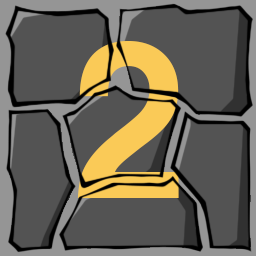
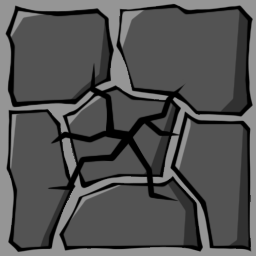
Feat: 깊이에 따라 기본 바위 체력 변경, 새로운 이미지 적용

Changed region(s): [[0.1875, 0.1562, 0.7188, 0.7812]]

diff --git a/Assets/0_Scripts/Data/DTO/MineDTO.cs b/Assets/0_Scripts/Data/DTO/MineDTO.cs
@@ -62,7 +62,7 @@ namespace Mine
                     foreach (var rock in line.Rocks) {
                         var rockDTO = new RockDTO {
                             Id = GetHex(rock.Id),
-                            Hp = rock.Hp
+                            Hp = rock.Hp,
                         };
                         lineDTO.Rocks.Add(rockDTO);
                     }
@@ -107,7 +107,9 @@ namespace Mine
                     foreach (var rockDTO in lineDTO.Rocks) {
                         var rock = new RockState {
                             Id = GetDec(rockDTO.Id),
-                            Hp = rockDTO.Hp
+                            Hp = rockDTO.Hp,
+                            //TODO: 임시로 강제 주입, 나중에 Domain 쪽에서 한 번에 처리하거나 다른 방식으로 한 번에 처리
+                            MaxHp = Math.Max(6, (int)(line.Depth * 0.5f))
                         };
                         line.Rocks.Add(rock);
                     }

diff --git a/Assets/0_Scripts/Contents/Mine/Views/RockView.cs b/Assets/0_Scripts/Contents/Mine/Views/RockView.cs
@@ -21,7 +21,7 @@ public class RockView : MonoBehaviour, IPointerClickHandler
     public void Bind(RockState data, Action<int> onClick)
     {
         _img = GetComponent<Image>();
-        _img.sprite = _spriteSet.sprites[0];
+        _img.sprite = _spriteSet.sprites[5];
 
         _collider = GetComponent<BoxCollider2D>();
         _collider.enabled = true;
@@ -36,8 +36,11 @@ public class RockView : MonoBehaviour, IPointerClickHandler
     {
         Debug.Log($"Rock {_id} Refreshed: Hp={data.Hp}, IsBroken={data.IsBroken}");
 
-        if (data.Hp < 6) _img.sprite = _spriteSet.sprites[data.Hp];
+        //if (data.Hp < 6) _img.sprite = _spriteSet.sprites[data.Hp];
+
         if (data.IsBroken) PlayBreak();
+        else
+            _img.sprite = _spriteSet.sprites[(data.Hp * 6) / data.MaxHp - 1];
     }
 
     public void OnPointerClick(PointerEventData eventData)

diff --git a/Assets/0_Scripts/Contents/Mine/MIneDomain.cs b/Assets/0_Scripts/Contents/Mine/MIneDomain.cs
@@ -32,7 +32,7 @@ public class RockState
     public int Id;
     //public int Type;
     public int Hp;
-    //public int MaxHp;
+    public int MaxHp;   //NOTE: Line Depth에 따라 결정
     public bool IsBroken => Hp <= 0;
 }
 
@@ -154,7 +154,8 @@ public sealed class MineDomain
         for (int i = 0; i < _rules.RocksPerLine(); i++) {
             var rock = new RockState {
                 Id = MakeRockId(line.Depth, i),
-                Hp = _rules.RockHpForDepth(line.Depth)
+                Hp = _rules.RockHpForDepth(line.Depth),
+                MaxHp = _rules.RockHpForDepth(line.Depth)
             };
             line.Rocks.Add(rock);
         }

diff --git a/Assets/0_Scripts/Contents/Mine/DefaultMineRules.cs b/Assets/0_Scripts/Contents/Mine/DefaultMineRules.cs
@@ -35,7 +35,7 @@ public class DefaultMineRules : IMineRules
 
     public int RockHpForDepth(int depth)
     {
-        //TODO: 임시로 고정 -> 깊이에 따라 증가하도록 변경
-        return 6;
+        //TODO: 밸런스 조정 필요
+        return Math.Max(6, (int)(depth * 0.5f));
     }
 }

diff --git a/Assets/0_Scripts/Contents/Mine/MineManager.cs b/Assets/0_Scripts/Contents/Mine/MineManager.cs
@@ -141,7 +141,7 @@ public class MineManager : MonoBehaviour, ISaveHandler
     {
         Debug.Log($"Rock Clicked: {rockId}");
 
-        _domain.ClickRock(rockId, damage: 2);
+        _domain.ClickRock(rockId, damage: 1);
     }
 
     void OnVeinClick(int veinId)
